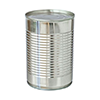
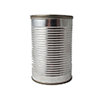
Changed the demo page to use royalty free images.

diff --git a/public/demo_checkout.html b/public/demo_checkout.html
@@ -29,12 +29,12 @@
 
             <div class="demo-container-body">
                 <div>
-                    <div id="beans"></div>
-                    <div id="hitbox" onmouseover="spill();" onmouseout="revert()"></div>
+                    <div id="beans">
+                        <div id="hitbox" onmouseover="spill();" onmouseout="revert()"></div>
+                    </div>
 
                     <div>
                         <h3 id="bean-header">Canned Beans</h3>
-                        <!-- <h3>Canned Beans</h3> -->
                         
                         <span>$2.19 ea</span><br>
                         <span><strong>Quantity:</strong></span><br>
@@ -47,8 +47,8 @@
                 </div>
 
                 <div class="remove-and-update">
-                    <div class="remove">
-                        <span><i class="fa fa-solid fa-trash"></i>Remove</span>
+                    <div>
+                        <span class="remove"><i class="fa fa-solid fa-trash"></i>Remove</span>
                     </div>
     
                     <div>
@@ -61,15 +61,15 @@
                     <div class="oj"></div>
 
                     <div>
-                        <h3>Orange Juice</h3>
+                        <h3>Large Eggs</h3>
                         
-                        <span>$5.99 ea</span><br>
+                        <span>$2.99 ea</span><br>
                         <span><strong>Quantity:</strong></span><br>
                         <input readonly type="text" value="1">
                     </div>
 
                     <div class="item-total">
-                        <h3>$5.99</h3>
+                        <h3>$2.99</h3>
                     </div>
                 </div>
 
@@ -90,7 +90,7 @@
                     </div>
                     
                     <div>
-                        <span>$14.75</span>
+                        <span>$11.75</span>
                     </div>
                 </div>
 
@@ -106,7 +106,7 @@
 
             <div class="space-between margin-top">
                 <span>Subtotal<br><small>5 items</small></span>
-                <span>$14.75</span>
+                <span>$11.75</span>
             </div>
 
             <div class="space-between">
@@ -126,7 +126,7 @@
 
             <div class="space-between padding-top">
                 <span class="bold-big">Total</span>
-                <span class="bold-big">$20.37</span>
+                <span class="bold-big">$17.37</span>
             </div>
         </div>
 

diff --git a/public/css/pages/demo_checkout.css b/public/css/pages/demo_checkout.css
@@ -14,12 +14,12 @@ input[type=text]
 
 #hitbox
 {
-    position: absolute;
+    position: relative;
     /* background-color: black; */
     width: 10px;
     height: 10px;
-    top: 281px;
-    left: 105px;
+    top: 15px;
+    left: 63px;
 }
 
 
@@ -165,6 +165,7 @@ input[type=text]
 .demo-container > .space-between span
 {
     margin: 10px 15px;
+
 }
 
 .bold-subheader
@@ -177,7 +178,7 @@ input[type=text]
 {
     width: 100px;
     height: 100px;
-    background: url(../../img/demo_page/orange_juice_small.png);
+    background: url(../../img/demo_page/eggs.png);
 }
 
 .width-90
